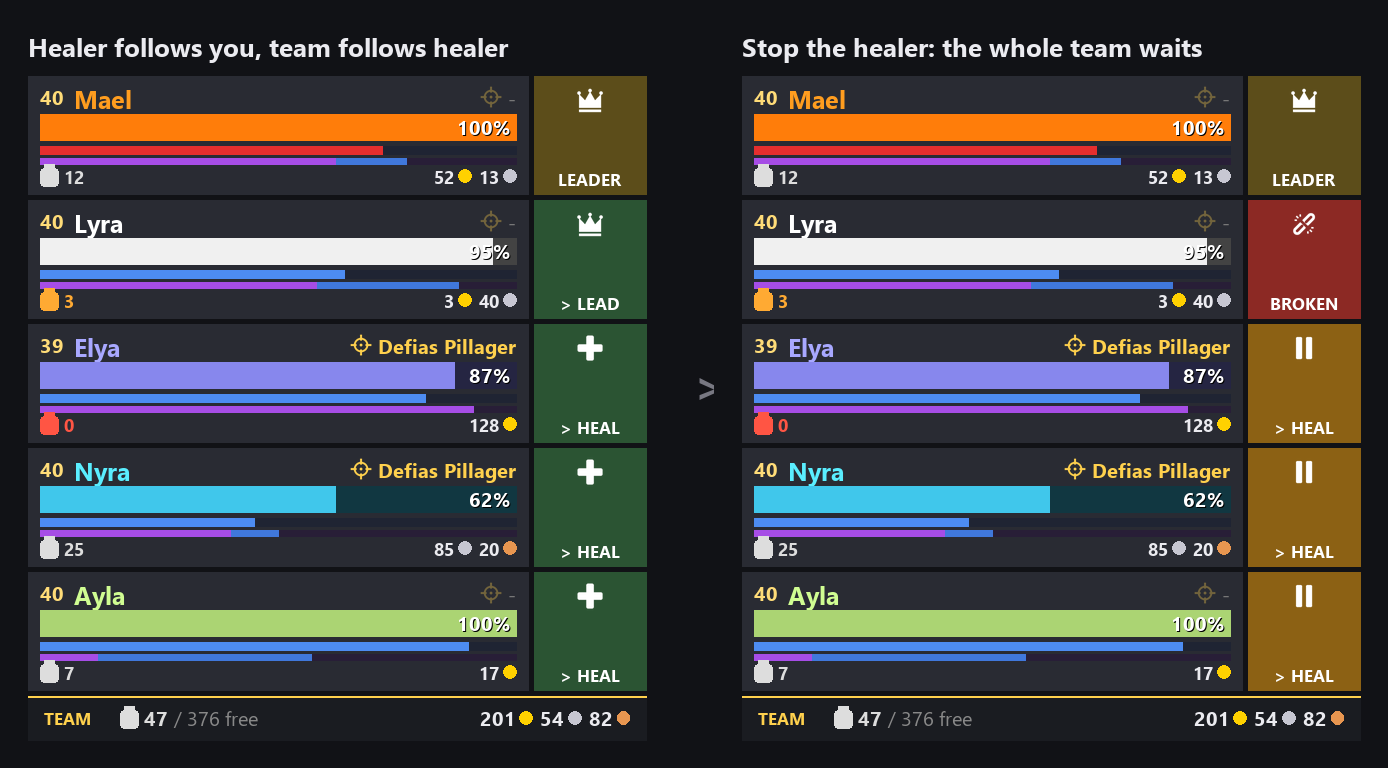
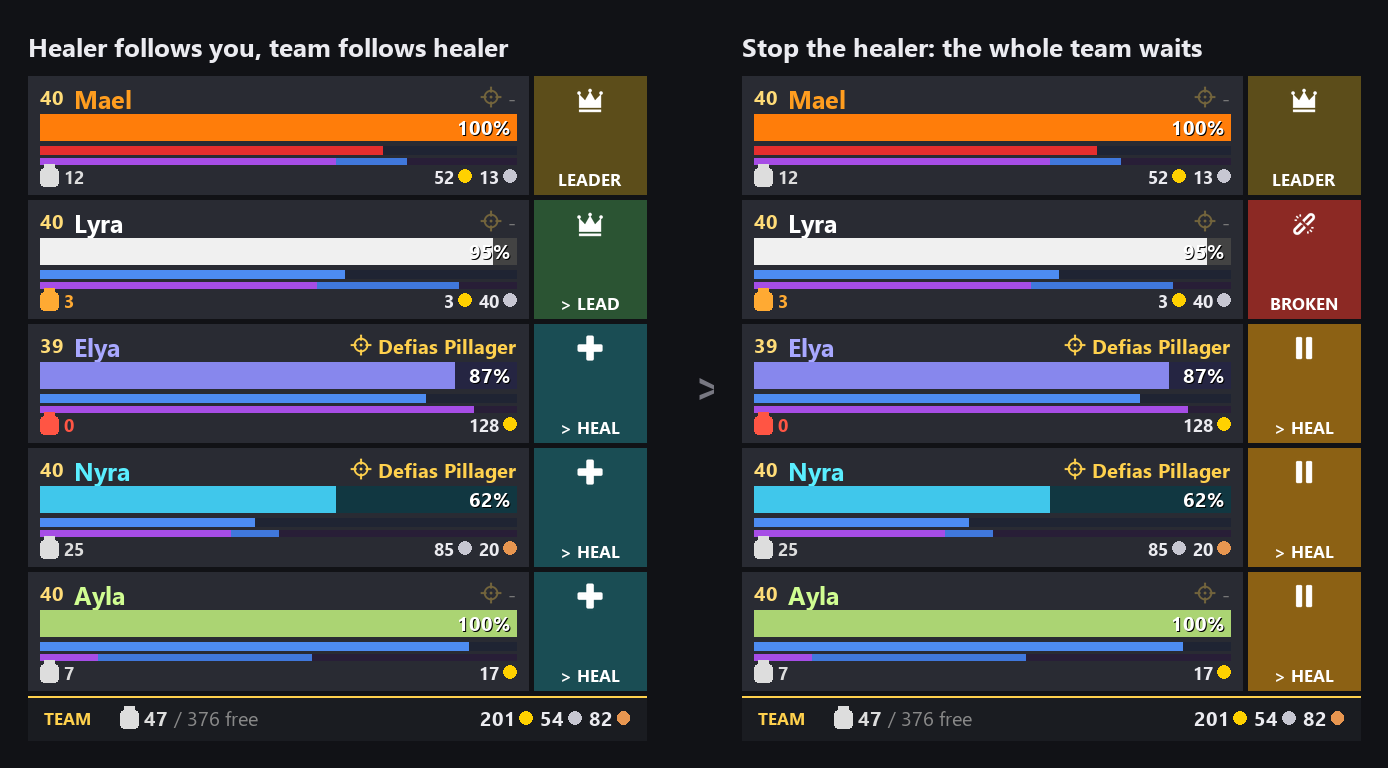
Show following the healer in teal
Following the leader keeps the green status box. Following the healer, or
any other toon, now uses teal, so the two follow modes are easy to tell
apart at a glance.

Changed region(s): [[0.3718, 0.4062, 0.4647, 0.9062]]

diff --git a/docs/render_docs.py b/docs/render_docs.py
@@ -22,7 +22,7 @@ BG = (17, 18, 22)
 ROW_BG = (41, 43, 51)
 POWER_BG = (31, 36, 51)
 BOX = {
-    "lead": (92, 77, 26), "ok": (43, 84, 51), "paused": (140, 97, 20),
+    "lead": (92, 77, 26), "ok": (43, 84, 51), "chain": (26, 77, 84), "paused": (140, 97, 20),
     "broken": (140, 41, 36), "away": (64, 64, 71),
 }
 CLASS = {
@@ -192,10 +192,10 @@ def save(img, name):
     print("wrote", name, img.size)
 
 # 1. hero: the team frame in "healer leads the pack" mode
-save(frame(team(("ok", "crown", "> LEAD"), ("ok", "cross", "> HEAL"))), "team-frame.png")
+save(frame(team(("ok", "crown", "> LEAD"), ("chain", "cross", "> HEAL"))), "team-frame.png")
 
 # 2. follow chain: before / after stopping the healer, side by side
-a = frame(team(("ok", "crown", "> LEAD"), ("ok", "cross", "> HEAL")), title="Healer follows you, team follows healer")
+a = frame(team(("ok", "crown", "> LEAD"), ("chain", "cross", "> HEAL")), title="Healer follows you, team follows healer")
 b = frame(team(("broken", "link-broken", "BROKEN"), ("paused", "pause", "> HEAL")), title="Stop the healer: the whole team waits")
 chain = Image.new("RGBA", (a.width + b.width + int(20 * K), max(a.height, b.height)), BG + (255,))
 chain.alpha_composite(a, (0, 0))

diff --git a/README.md b/README.md
@@ -45,8 +45,8 @@ Click a row to target that character. `[@mouseover]` macros work on the rows, so
 |---|---|
 | Gold, crown, **LEADER** | This is the leader. |
 | Green, crown, **> LEAD** | Following the leader. |
-| Green, cross, **> HEAL** | Following the healer. |
-| Green, link, **> NAME** | Following another character. |
+| Teal, cross, **> HEAL** | Following the healer. |
+| Teal, link, **> NAME** | Following another character. |
 | Red, broken link, **BROKEN** | Not following anyone. |
 | Amber, pause, **> NAME** | Still following, but someone further up the chain has stopped. |
 | Grey, **AWAY** | In the team, but not in your group. |
